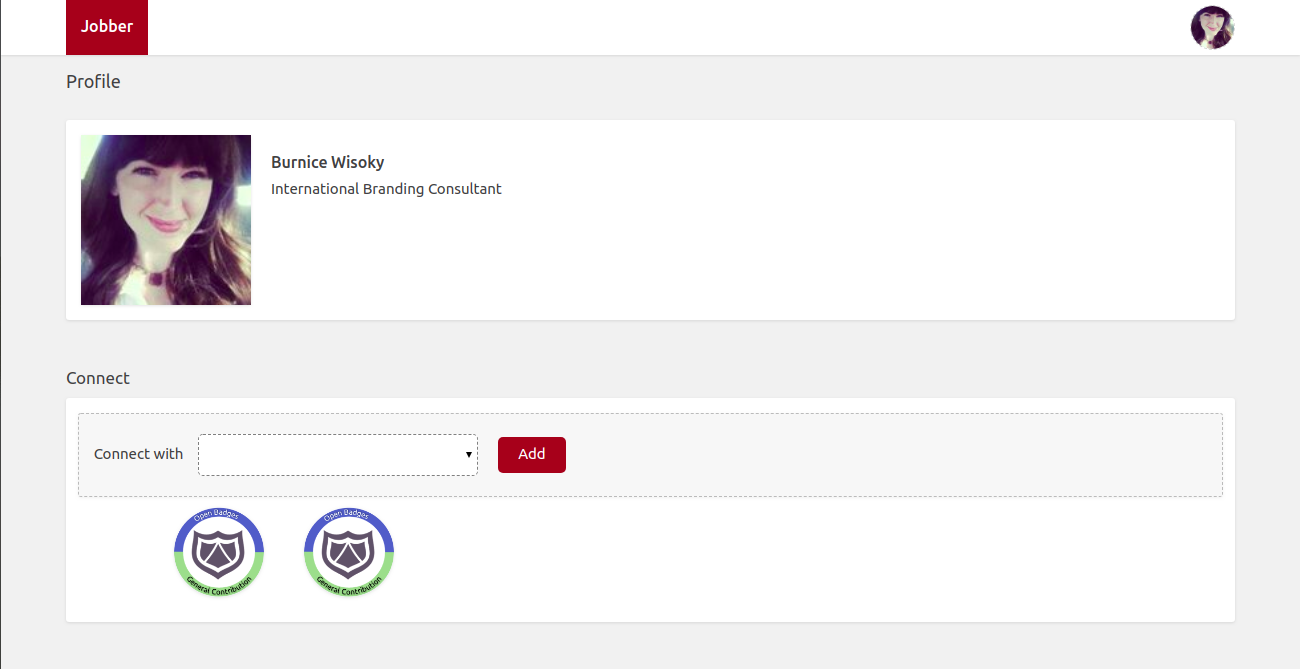
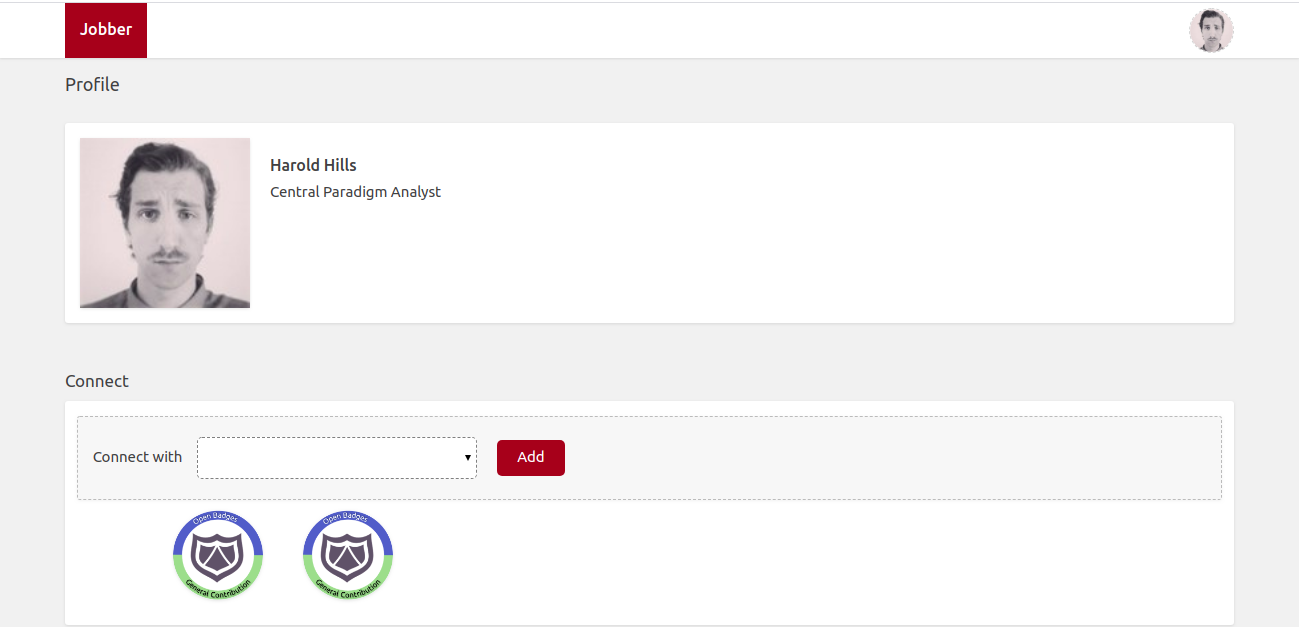
Update the readme to include a new profile example

diff --git a/apps/client/src/controllers/register.controller.ts b/apps/client/src/controllers/register.controller.ts
@@ -11,6 +11,7 @@ export const register = async (req: Request, res, next) => {
 
   try {
     const { url } = req.query;
+    console.log('the wellknown url is ', url)
 
     // generate the code challenge
     const code_verifier = generators.codeVerifier();

diff --git a/apps/client/src/server.ts b/apps/client/src/server.ts
@@ -5,6 +5,7 @@ import app from './app';
 
 const PORT = process.env.PORT || 9000;
 
+process.env['NODE_TLS_REJECT_UNAUTHORIZED'] = '0';
 
 const server = app.listen(PORT, () => {
   // tslint:disable-next-line: no-console

diff --git a/GETTING_STARTED.md b/GETTING_STARTED.md
@@ -24,7 +24,7 @@
 
 ## Example for a profile logged in a relying party and connected to Host (Badgewell in this case)
 
-- profile : https://bw-bc-client-byib6l3wza-uc.a.run.app/profile/1f836836-49bd-446c-ad19-ee3e78cffcd4
-- profile as JSON : https://bw-bc-client-byib6l3wza-uc.a.run.app/profile-json/1f836836-49bd-446c-ad19-ee3e78cffcd4 
+- profile : https://bw-bc-client-byib6l3wza-uc.a.run.app/profile/59b63e94-5116-4a50-8255-a83930607577
+- profile as JSON : https://bw-bc-client-byib6l3wza-uc.a.run.app/profile-json/59b63e94-5116-4a50-8255-a83930607577
  
 ![Screenshot](img.png)
